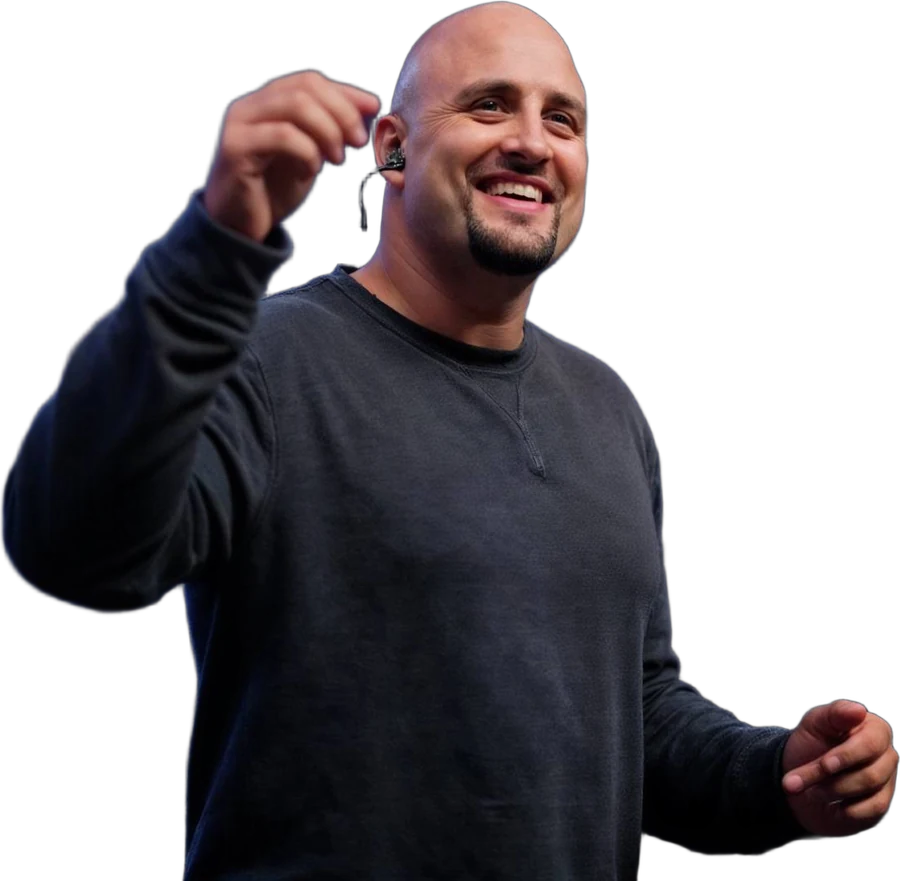
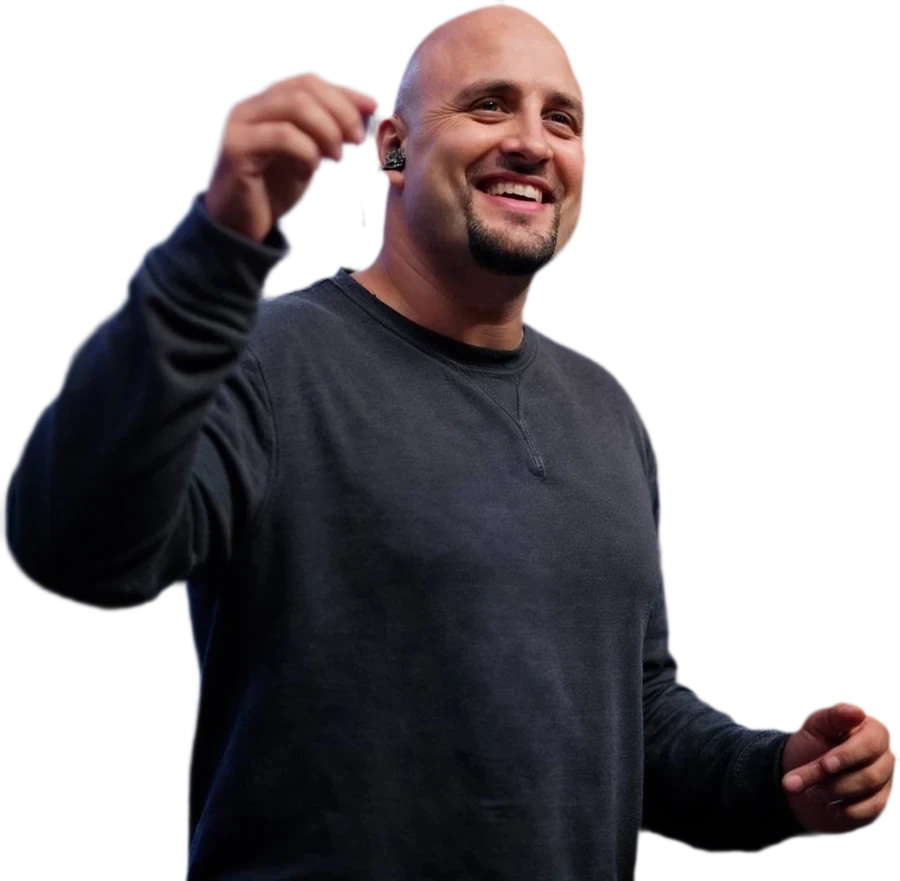
Сайт директора: плашки не закрывают лица, чистые края вырезок, мягкий низ фигур

diff --git a/direktor/kristina/style.css b/direktor/kristina/style.css
@@ -75,13 +75,13 @@ mark{background:var(--y);color:var(--ink);padding:0 .12em;box-decoration-break:c
 .hero-art{position:relative;align-self:stretch;min-height:560px}
 .hero-art .swirl{position:absolute;width:118%;left:-6%;top:2%;opacity:.95;animation:spin 120s linear infinite}
 @keyframes spin{to{transform:rotate(360deg)}}
-.hero-art .p{position:absolute;bottom:0;filter:drop-shadow(0 30px 40px rgba(10,15,92,.22))}
+.hero-art .p{position:absolute;bottom:0;filter:drop-shadow(0 30px 40px rgba(10,15,92,.22));-webkit-mask-image:linear-gradient(to bottom,#000 78%,transparent 99%);mask-image:linear-gradient(to bottom,#000 78%,transparent 99%)}
 .hero-art .p-igor{right:-4%;width:74%}
 .hero-art .p-kris{left:2%;width:52%;z-index:2}
 .tag{position:absolute;z-index:3;background:var(--card);border:1px solid var(--line);border-radius:14px;padding:10px 14px;box-shadow:0 12px 30px -16px rgba(10,15,92,.35);font-size:13px;line-height:1.3;color:var(--ink-2)}
 .tag b{display:block;font-size:15px;color:var(--ink);font-weight:700}
-.tag-kris{left:0;bottom:26%}
-.tag-igor{right:2%;top:24%}
+.tag-kris{left:0;bottom:7%}
+.tag-igor{right:0;bottom:16%}
 .stat-strip{border-top:1px solid var(--line);margin-top:0}
 .stat-strip .wrap{display:flex;flex-wrap:wrap;gap:12px 48px;padding:22px 0;align-items:baseline}
 .stat-strip .n{font:800 34px/1 var(--display)}
@@ -315,8 +315,8 @@ input[aria-invalid="true"]{border-color:#b42318;box-shadow:0 0 0 3px rgba(180,35
   .invite{margin-top:18px}
   .tag{font-size:12px;padding:8px 10px}
   .tag b{font-size:14px}
-  .tag-igor{top:16%}
-  .tag-kris{bottom:30%}
+  .tag-igor{bottom:14%}
+  .tag-kris{bottom:6%}
   .v-frame{aspect-ratio:16/10;border-radius:20px}
   .v-play span{width:76px;height:76px}
   .path{grid-template-columns:1fr}
